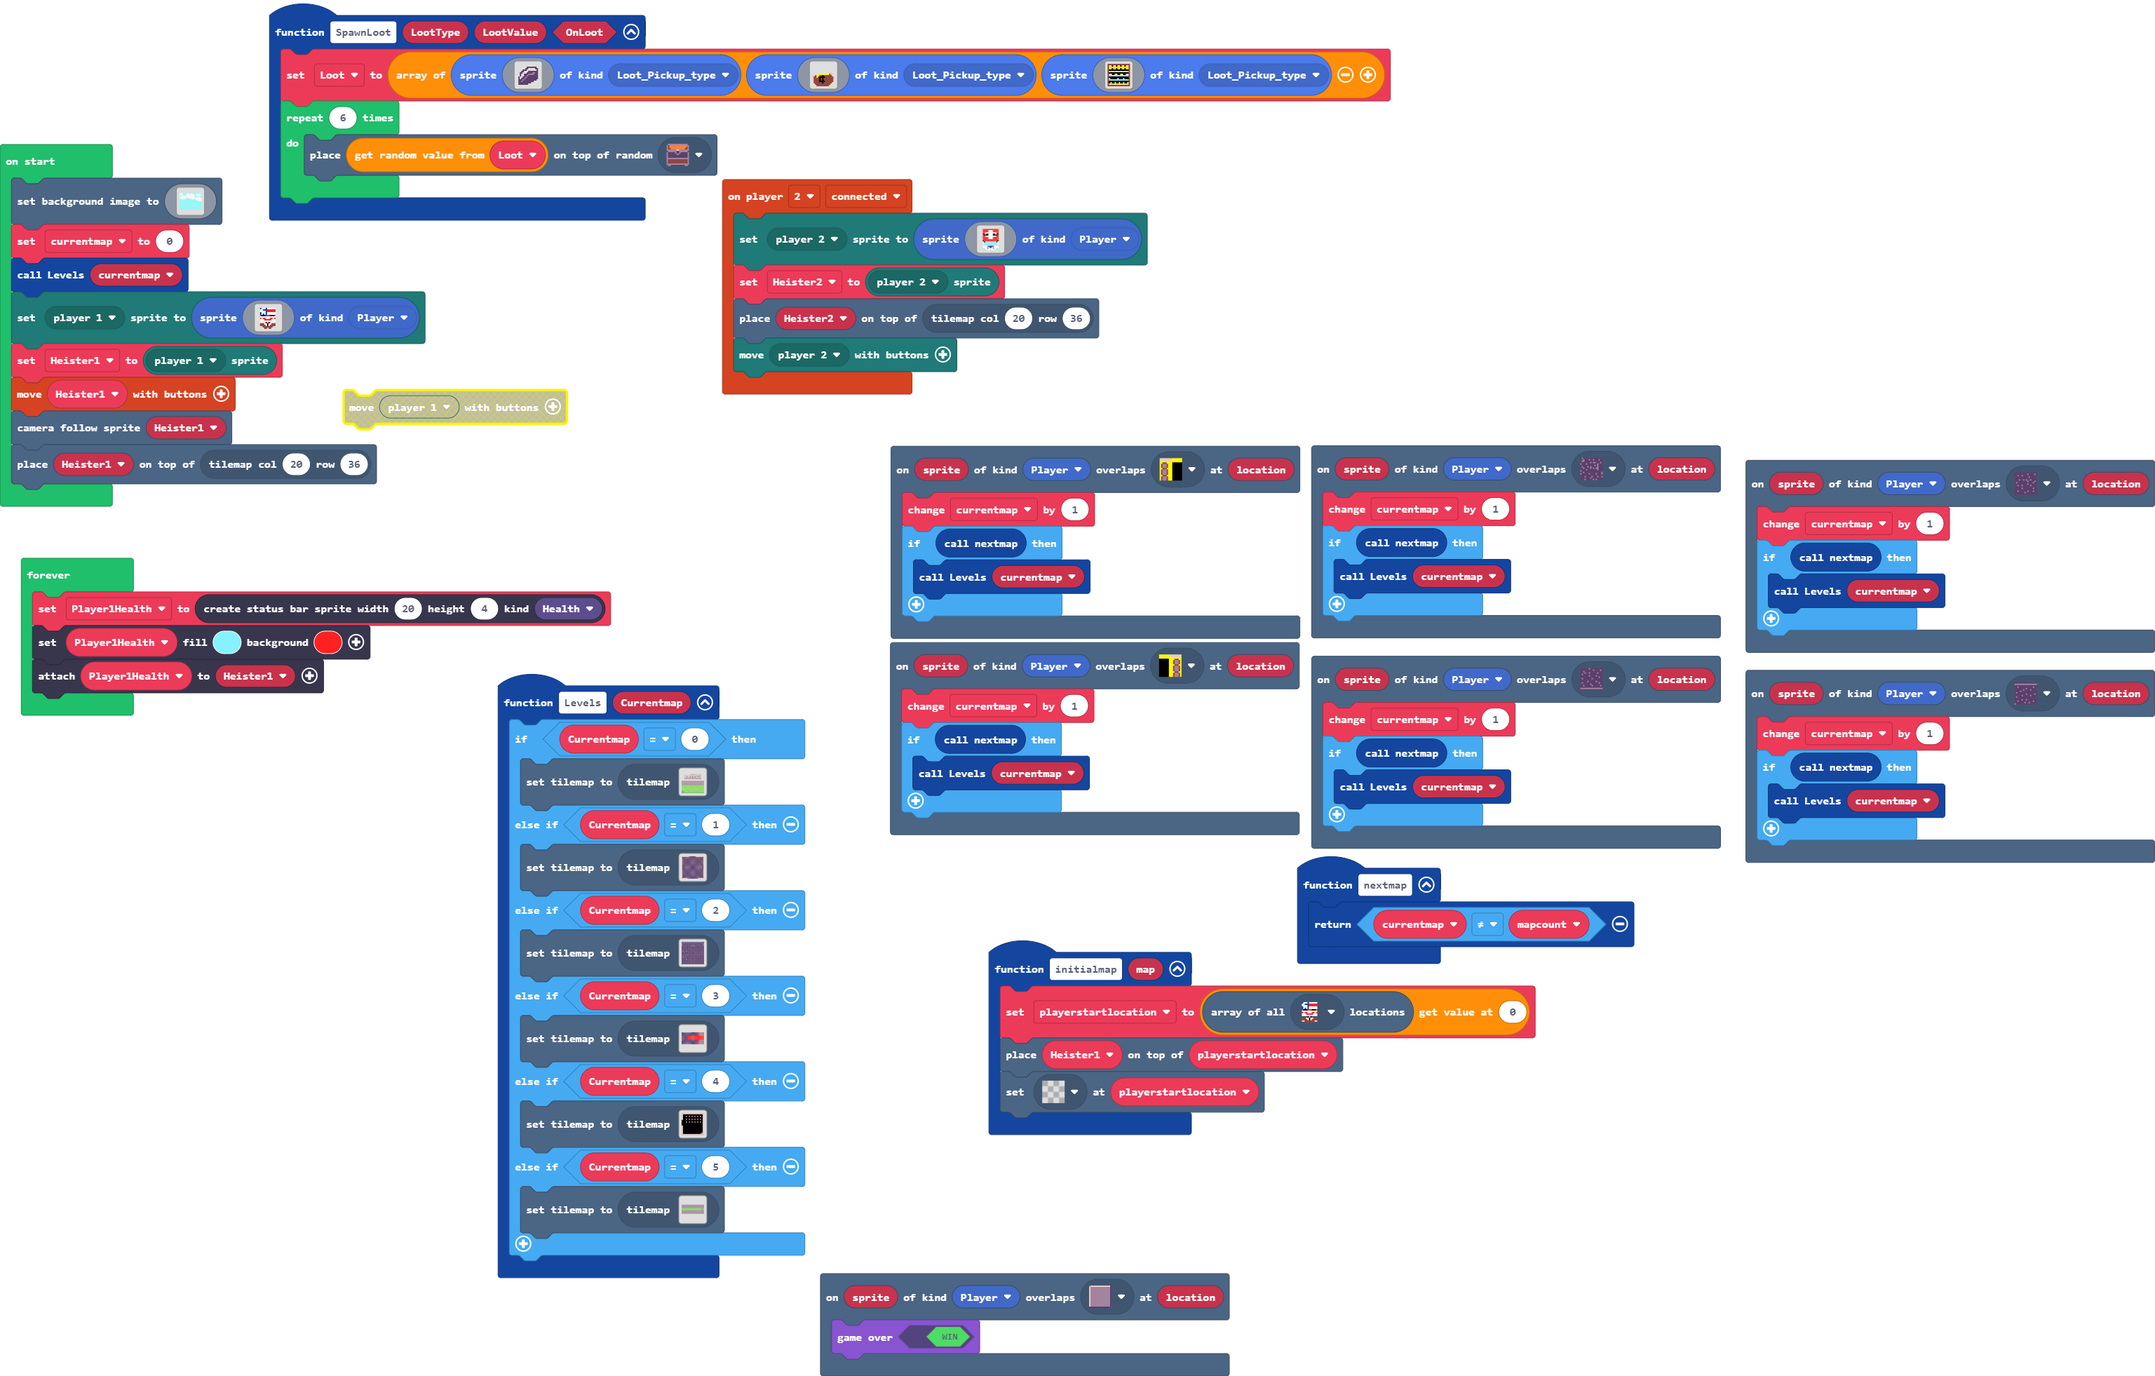
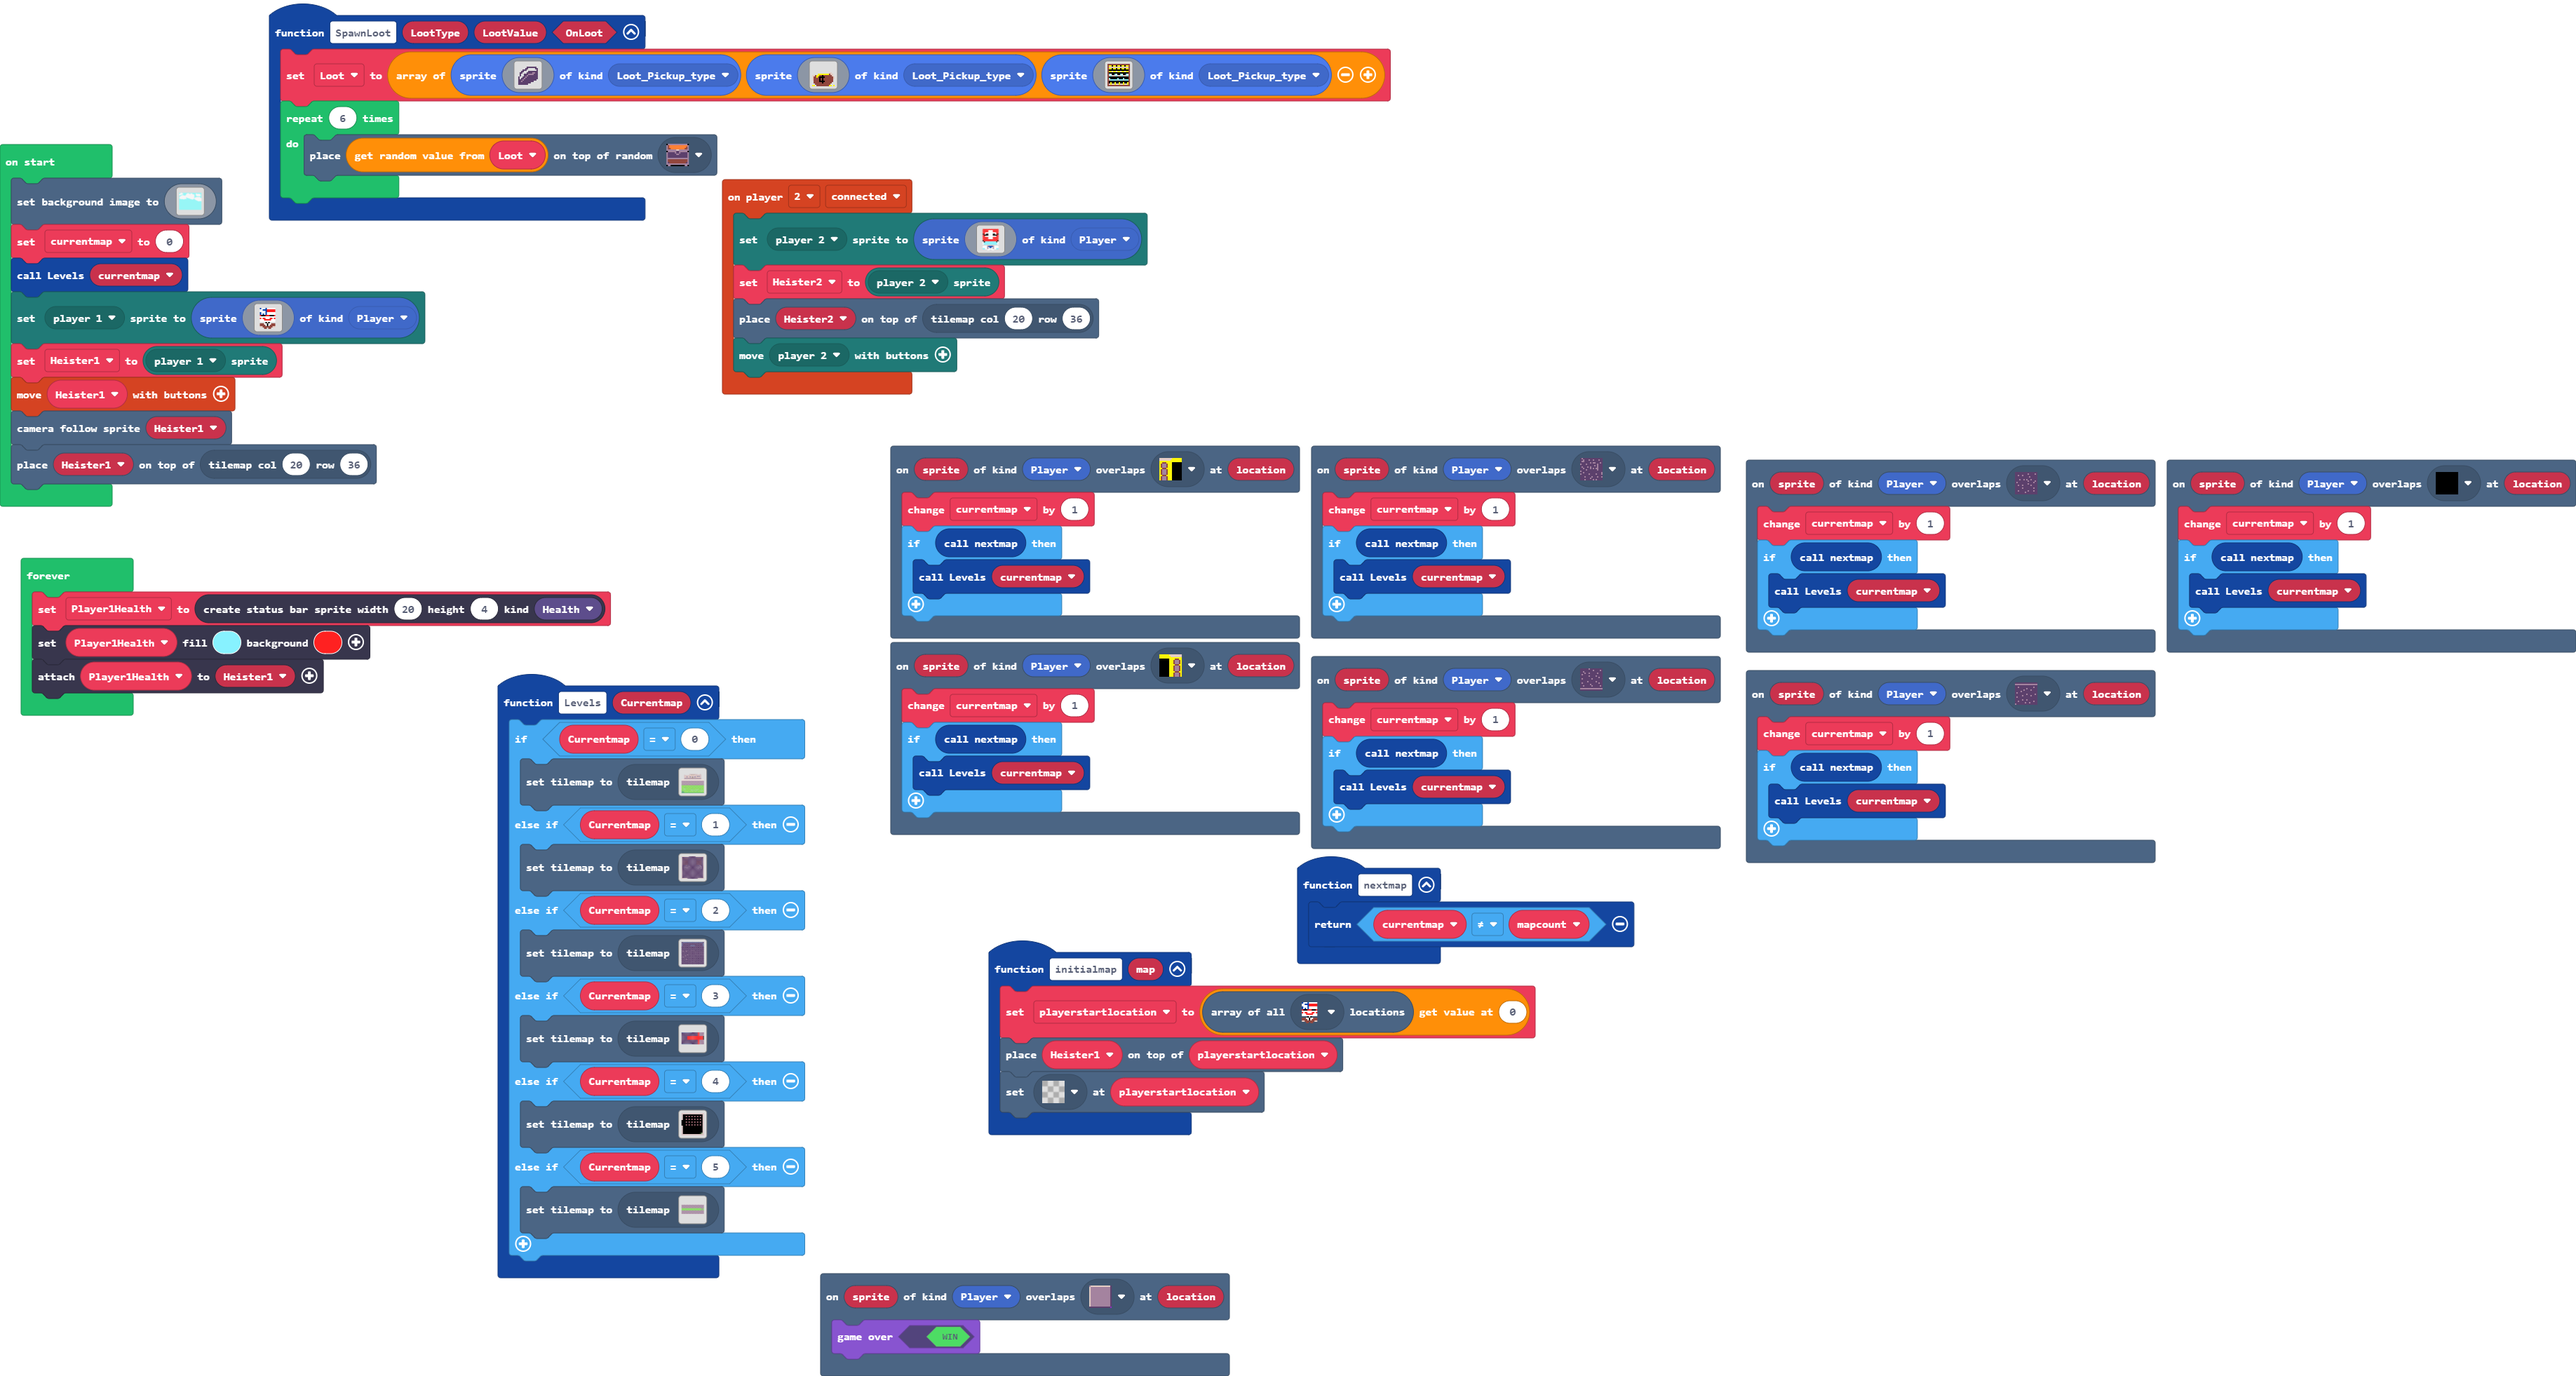
Update main.blocks, main.ts, tilemap.g.jres, tilemap.g.ts

Changed region(s): [[0.0, 0.0, 1.0, 1.0]]

diff --git a/tilemap.g.ts b/tilemap.g.ts
@@ -104,6 +104,10 @@ namespace myTiles {
     export const tile50 = image.ofBuffer(hex``);
     //% fixedInstance jres blockIdentity=images._tile
     export const tile51 = image.ofBuffer(hex``);
+    //% fixedInstance jres blockIdentity=images._tile
+    export const tile52 = image.ofBuffer(hex``);
+    //% fixedInstance jres blockIdentity=images._tile
+    export const tile53 = image.ofBuffer(hex``);
 
     helpers._registerFactory("tilemap", function(name: string) {
         switch(helpers.stringTrim(name)) {
@@ -829,44 +833,6 @@ namespace myTiles {
 2............................2
 22222222..............22222222
 `, [myTiles.transparency16,sprites.dungeon.darkGroundCenter,sprites.dungeon.darkGroundNorthWest0,sprites.dungeon.darkGroundSouth,sprites.dungeon.darkGroundSouthWest0,sprites.dungeon.darkGroundWest,sprites.dungeon.darkGroundEast,sprites.dungeon.darkGroundSouthEast0,sprites.dungeon.darkGroundNorthEast0,sprites.dungeon.darkGroundNorth,sprites.dungeon.floorLight0,myTiles.tile33,myTiles.tile34,myTiles.tile35,sprites.dungeon.floorDark3,myTiles.tile36,myTiles.tile37,sprites.dungeon.darkGroundSouthEast1,sprites.dungeon.darkGroundSouthWest1,myTiles.tile38,myTiles.tile41], TileScale.Sixteen);
-            case "vault_entrance":
[1 lines of base64/hex data omitted]
-22222222222222..........222222
-........................222222
-........................222222
-........................222222
-........................222222
-..............................
-..............................
-..............................
-..............................
-..............................
-........................222222
-........................222222
-........................222222
-........................222222
-........................222222
-22222222222222..........222222
-`, [myTiles.transparency16,myTiles.tile35,myTiles.tile42,sprites.dungeon.darkGroundSouth,sprites.dungeon.darkGroundNorth,sprites.dungeon.darkGroundCenter,myTiles.tile43,sprites.dungeon.floorDark0], TileScale.Sixteen);
-            case "vault_interior":
-            case "level38":return tiles.createTilemap(hex`1000100001010101010101010101010101010101010303030303030303030303030303010103030203020302030203020302030101030303030303030303030303030301010303020302030203020302030203010303030303030303030303030303030103030302030203020302030203020301030303030303030303030303030303010303030303030303030303030303030101030303030303030303030303030301010303030303030303030303030303010103030303030303030303030303030101030303030303030303030303030301010303030303030303030303030305010103030303030303030303030306040101010101010101010101010101010101`, img`
-2 2 2 2 2 2 2 2 2 2 2 2 2 2 2 2 
-2 . . . . . . . . . . . . . . 2 
-2 . . . . . . . . . . . . . . 2 
-2 . . . . . . . . . . . . . . 2 
-2 . . . . . . . . . . . . . . 2 
-. . . . . . . . . . . . . . . 2 
-. . . . . . . . . . . . . . . 2 
-. . . . . . . . . . . . . . . 2 
-. . . . . . . . . . . . . . . 2 
-2 . . . . . . . . . . . . . . 2 
-2 . . . . . . . . . . . . . . 2 
-2 . . . . . . . . . . . . . . 2 
-2 . . . . . . . . . . . . . . 2 
-2 . . . . . . . . . . . . . . 2 
-2 . . . . . . . . . . . . . . 2 
-2 2 2 2 2 2 2 2 2 2 2 2 2 2 2 2 
-`, [myTiles.transparency16,sprites.dungeon.floorLight0,sprites.dungeon.chestOpen,sprites.builtin.forestTiles10,myTiles.tile44,myTiles.tile45,myTiles.tile46], TileScale.Sixteen);
             case "level39":
             case "level39":return tiles.createTilemap(hex`2800100001010101010101010101010101010101010101010101010101010101010101010101010101010101010101010101010101010101010101010101010101010101010101010101010101010101010101010303030303030303030303030303030303030303030303030303030303030303030303030303030403030303030303030303030303030303030303030303030303030303030303030303030303030304030303030303030303030303030303030303030303030303030303030303030303030303030303040303030303030303030303030303030303030303030303030303030303030303030303030303030402020202020202020202020202020202020202020202020202020202020202020202020203030202020202020202020202020202020202020202020202020202020202020202020202020202030302020202020202020202020202020202020202020202020202020202020202020202020202020303020202020202020202020202020202020202020202020202020202020202020202020202020203030202030303030303030303030303030303030303030303030303030303030303030303030303030303040303030303030303030303030303030303030303030303030303030303030303030303030303030403030303030303030303030303030303030303030303030303030303030303030303030303030304030303030303030303030303030303030303030303030303030303030303030303030303030303040101010101010101010101010101010101010101010101010101010101010101010101010101010101010101010101010101010101010101010101010101010101010101010101010101010101010101`, img`
 2222222222222222222222222222222222222222
@@ -1137,6 +1103,44 @@ namespace myTiles {
 ....................
 ....................
 `, [myTiles.transparency16,myTiles.tile42,myTiles.tile35,myTiles.tile38,sprites.dungeon.darkGroundEast,sprites.dungeon.darkGroundWest,sprites.dungeon.darkGroundCenter,sprites.dungeon.darkGroundNorth,sprites.dungeon.darkGroundNorthEast0,sprites.dungeon.darkGroundNorthWest0,sprites.dungeon.darkGroundSouth,sprites.dungeon.floorDark3,myTiles.tile49,myTiles.tile50,myTiles.tile51], TileScale.Sixteen);
+            case "vault_entrance":
[1 lines of base64/hex data omitted]
+22222222222222..........222222
+........................222222
+........................222222
+........................222222
+........................222222
+..............................
+..............................
+..............................
+..............................
+..............................
+........................222222
+........................222222
+........................222222
+........................222222
+........................222222
+22222222222222..........222222
+`, [myTiles.transparency16,myTiles.tile35,myTiles.tile42,sprites.dungeon.darkGroundSouth,sprites.dungeon.darkGroundNorth,sprites.dungeon.darkGroundCenter,myTiles.tile43,sprites.dungeon.floorDark0,myTiles.tile52], TileScale.Sixteen);
+            case "vault_interior":
+            case "level38":return tiles.createTilemap(hex`1000100001010101010101010101010101010101010202020202020202020202020202010102020702070207020702070207020101020202020202020202020202020201010202070207020702070207020702010202020202020202020202020202020102020207020702070207020702070201020202020202020202020202020202010202020706070207020706070207020101020202020202020202020202020201010202020202020202020202020202010102020202020202020202020202020101020202020202020202020202020201010202020202020202020202020204010102020202020202020202020205030101010101010101010101010101010101`, img`
+2 2 2 2 2 2 2 2 2 2 2 2 2 2 2 2 
+2 . . . . . . . . . . . . . . 2 
+2 . . . . . . . . . . . . . . 2 
+2 . . . . . . . . . . . . . . 2 
+2 . . . . . . . . . . . . . . 2 
+. . . . . . . . . . . . . . . 2 
+. . . . . . . . . . . . . . . 2 
+. . . . . . . . . . . . . . . 2 
+. . . . . . . . . . . . . . . 2 
+2 . . . . . . . . . . . . . . 2 
+2 . . . . . . . . . . . . . . 2 
+2 . . . . . . . . . . . . . . 2 
+2 . . . . . . . . . . . . . . 2 
+2 . . . . . . . . . . . . . . 2 
+2 . . . . . . . . . . . . . . 2 
+2 2 2 2 2 2 2 2 2 2 2 2 2 2 2 2 
+`, [myTiles.transparency16,sprites.dungeon.floorLight0,sprites.builtin.forestTiles10,myTiles.tile44,myTiles.tile45,myTiles.tile46,myTiles.tile52,myTiles.tile53], TileScale.Sixteen);
         }
         return null;
     })
@@ -1243,6 +1247,10 @@ namespace myTiles {
             case "tile50":return tile50;
             case "myTile31":
             case "tile51":return tile51;
+            case "myTile32":
+            case "tile52":return tile52;
+            case "myTile33":
+            case "tile53":return tile53;
         }
         return null;
     })

diff --git a/main.ts b/main.ts
@@ -24,10 +24,16 @@ function initialmap (map: any[]) {
 function SpawnLoot (LootType: string, LootValue: number, OnLoot: boolean) {
     Loot = [sprites.create(assets.image`Money_Bag`, SpriteKind.Loot_Pickup_type), sprites.create(assets.image`Bag_of_GOLD`, SpriteKind.Loot_Pickup_type), sprites.create(assets.image`Jewlery_Box`, SpriteKind.Loot_Pickup_type)]
     for (let index = 0; index < 6; index++) {
-        tiles.placeOnRandomTile(Loot._pickRandom(), sprites.dungeon.chestOpen)
+        tiles.placeOnRandomTile(Loot._pickRandom(), assets.tile`myTile33`)
     }
 }
 scene.onOverlapTile(SpriteKind.Player, assets.tile`endofmainarea`, function (sprite, location) {
+    currentmap += 1
+    if (nextmap()) {
+        Levels(currentmap)
+    }
+})
+scene.onOverlapTile(SpriteKind.Player, sprites.builtin.forestTiles10, function (sprite, location) {
     currentmap += 1
     if (nextmap()) {
         Levels(currentmap)
